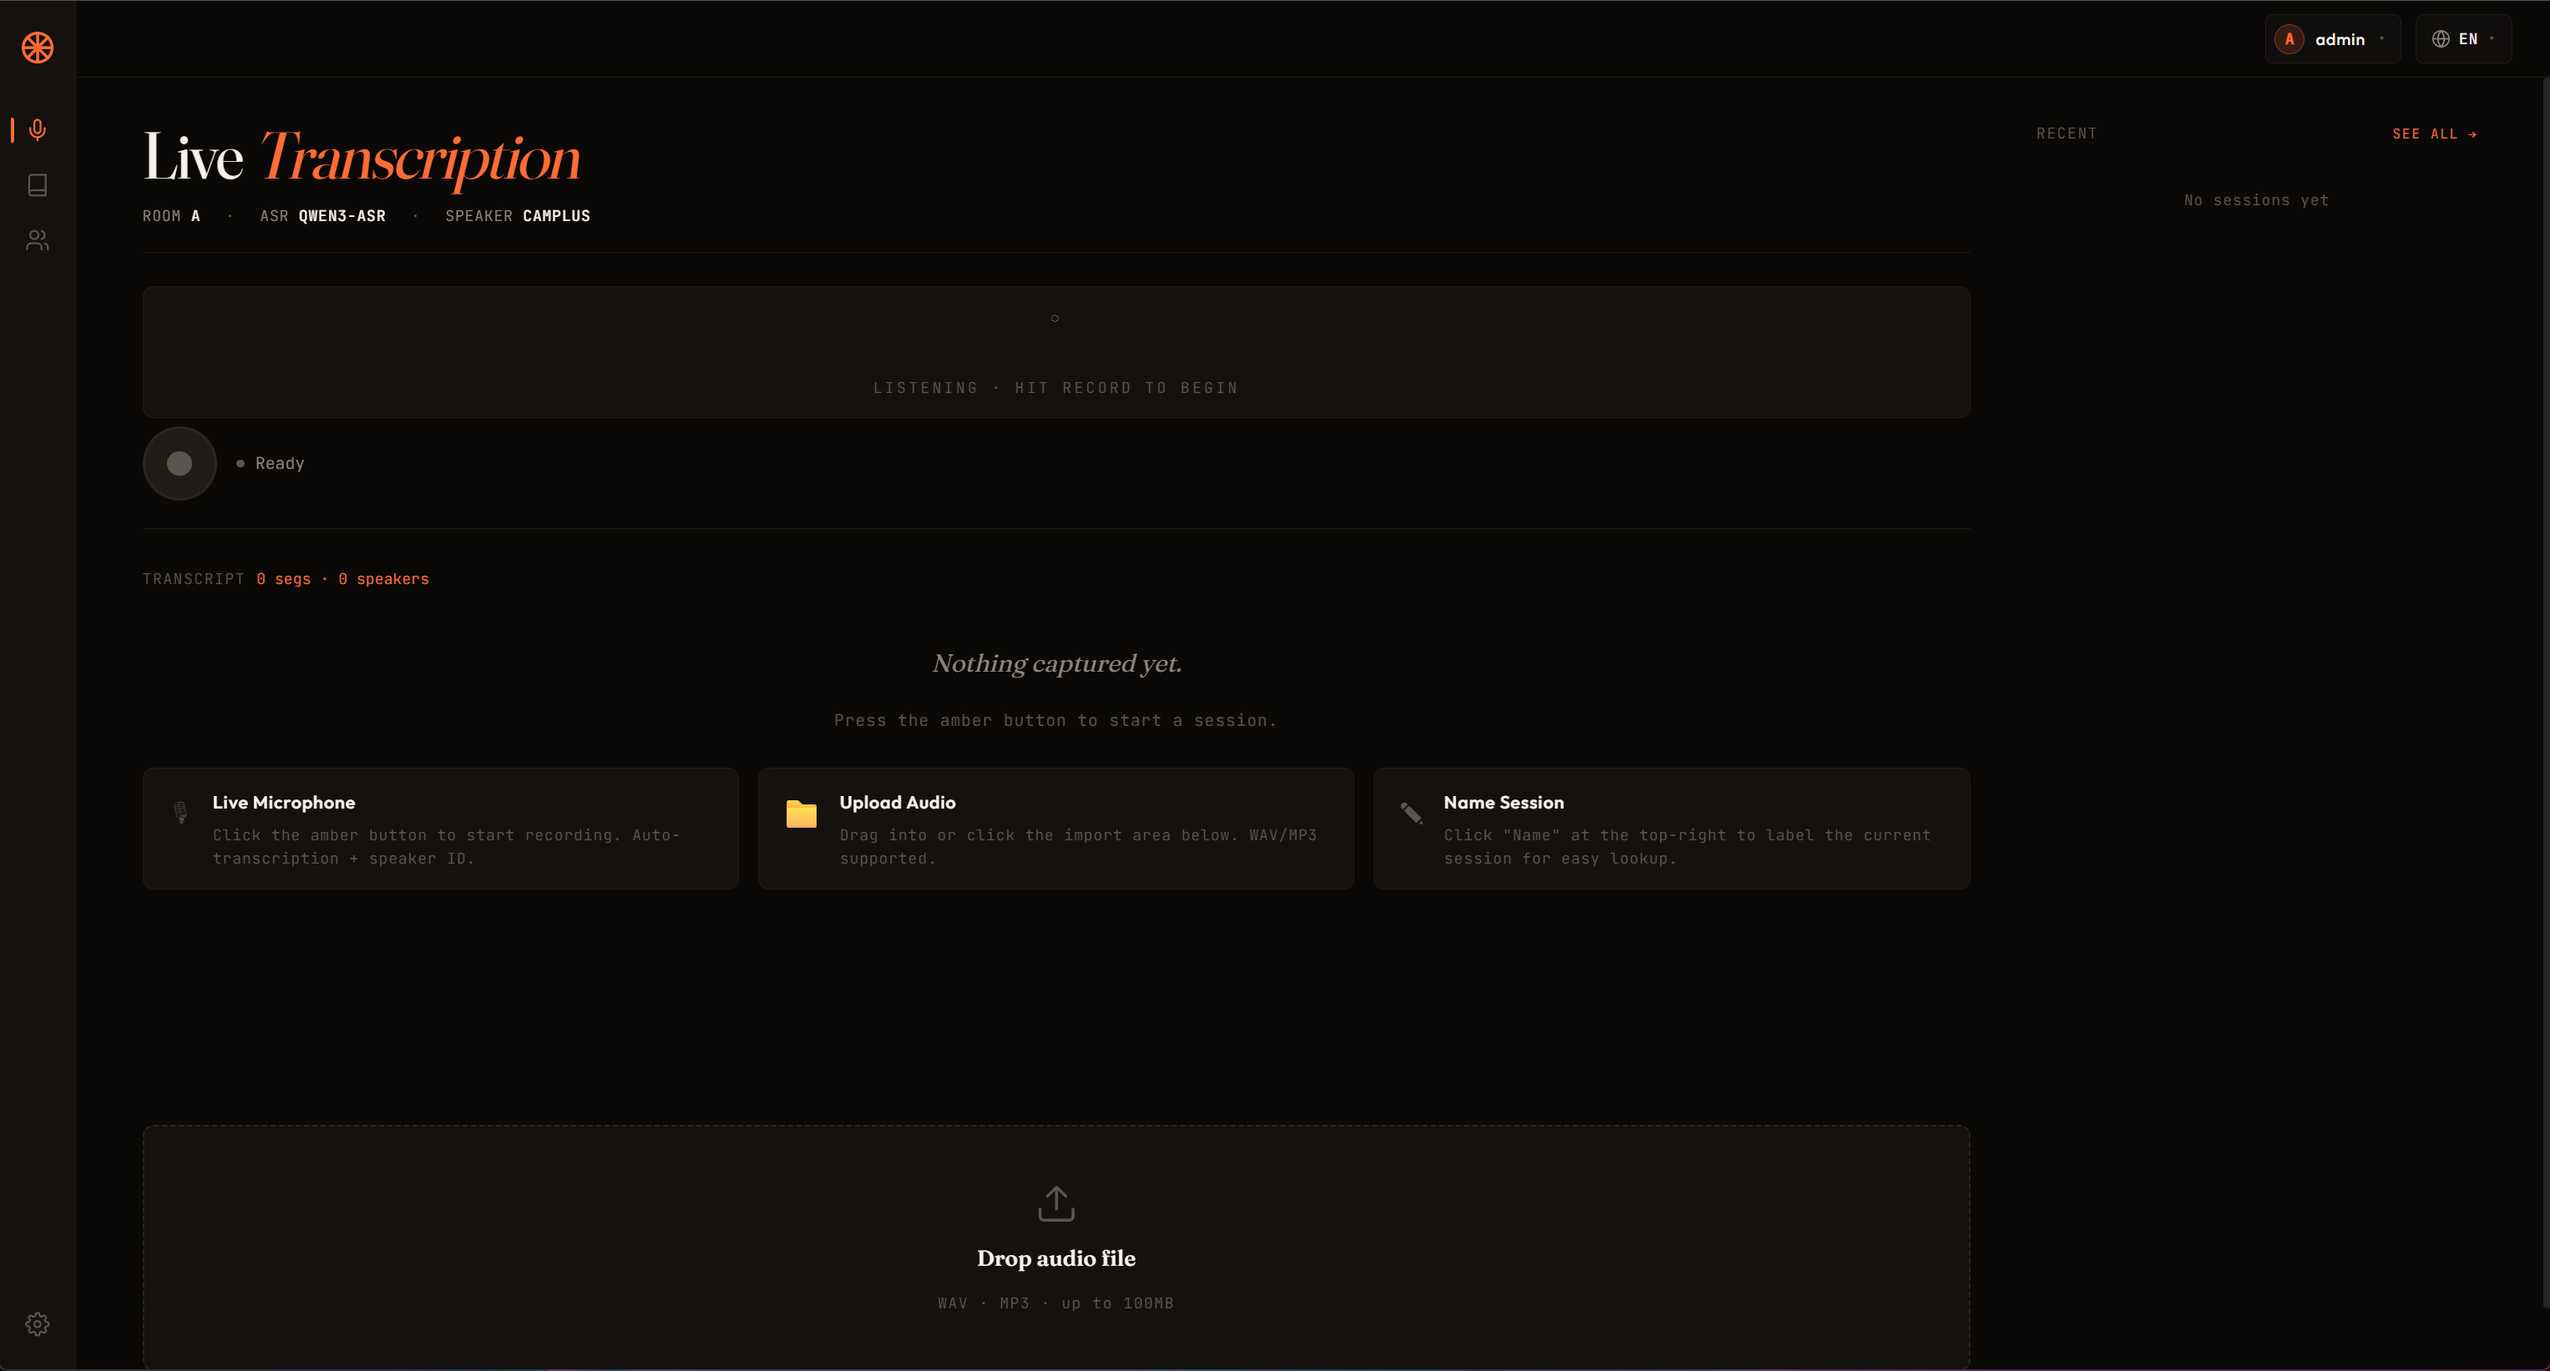
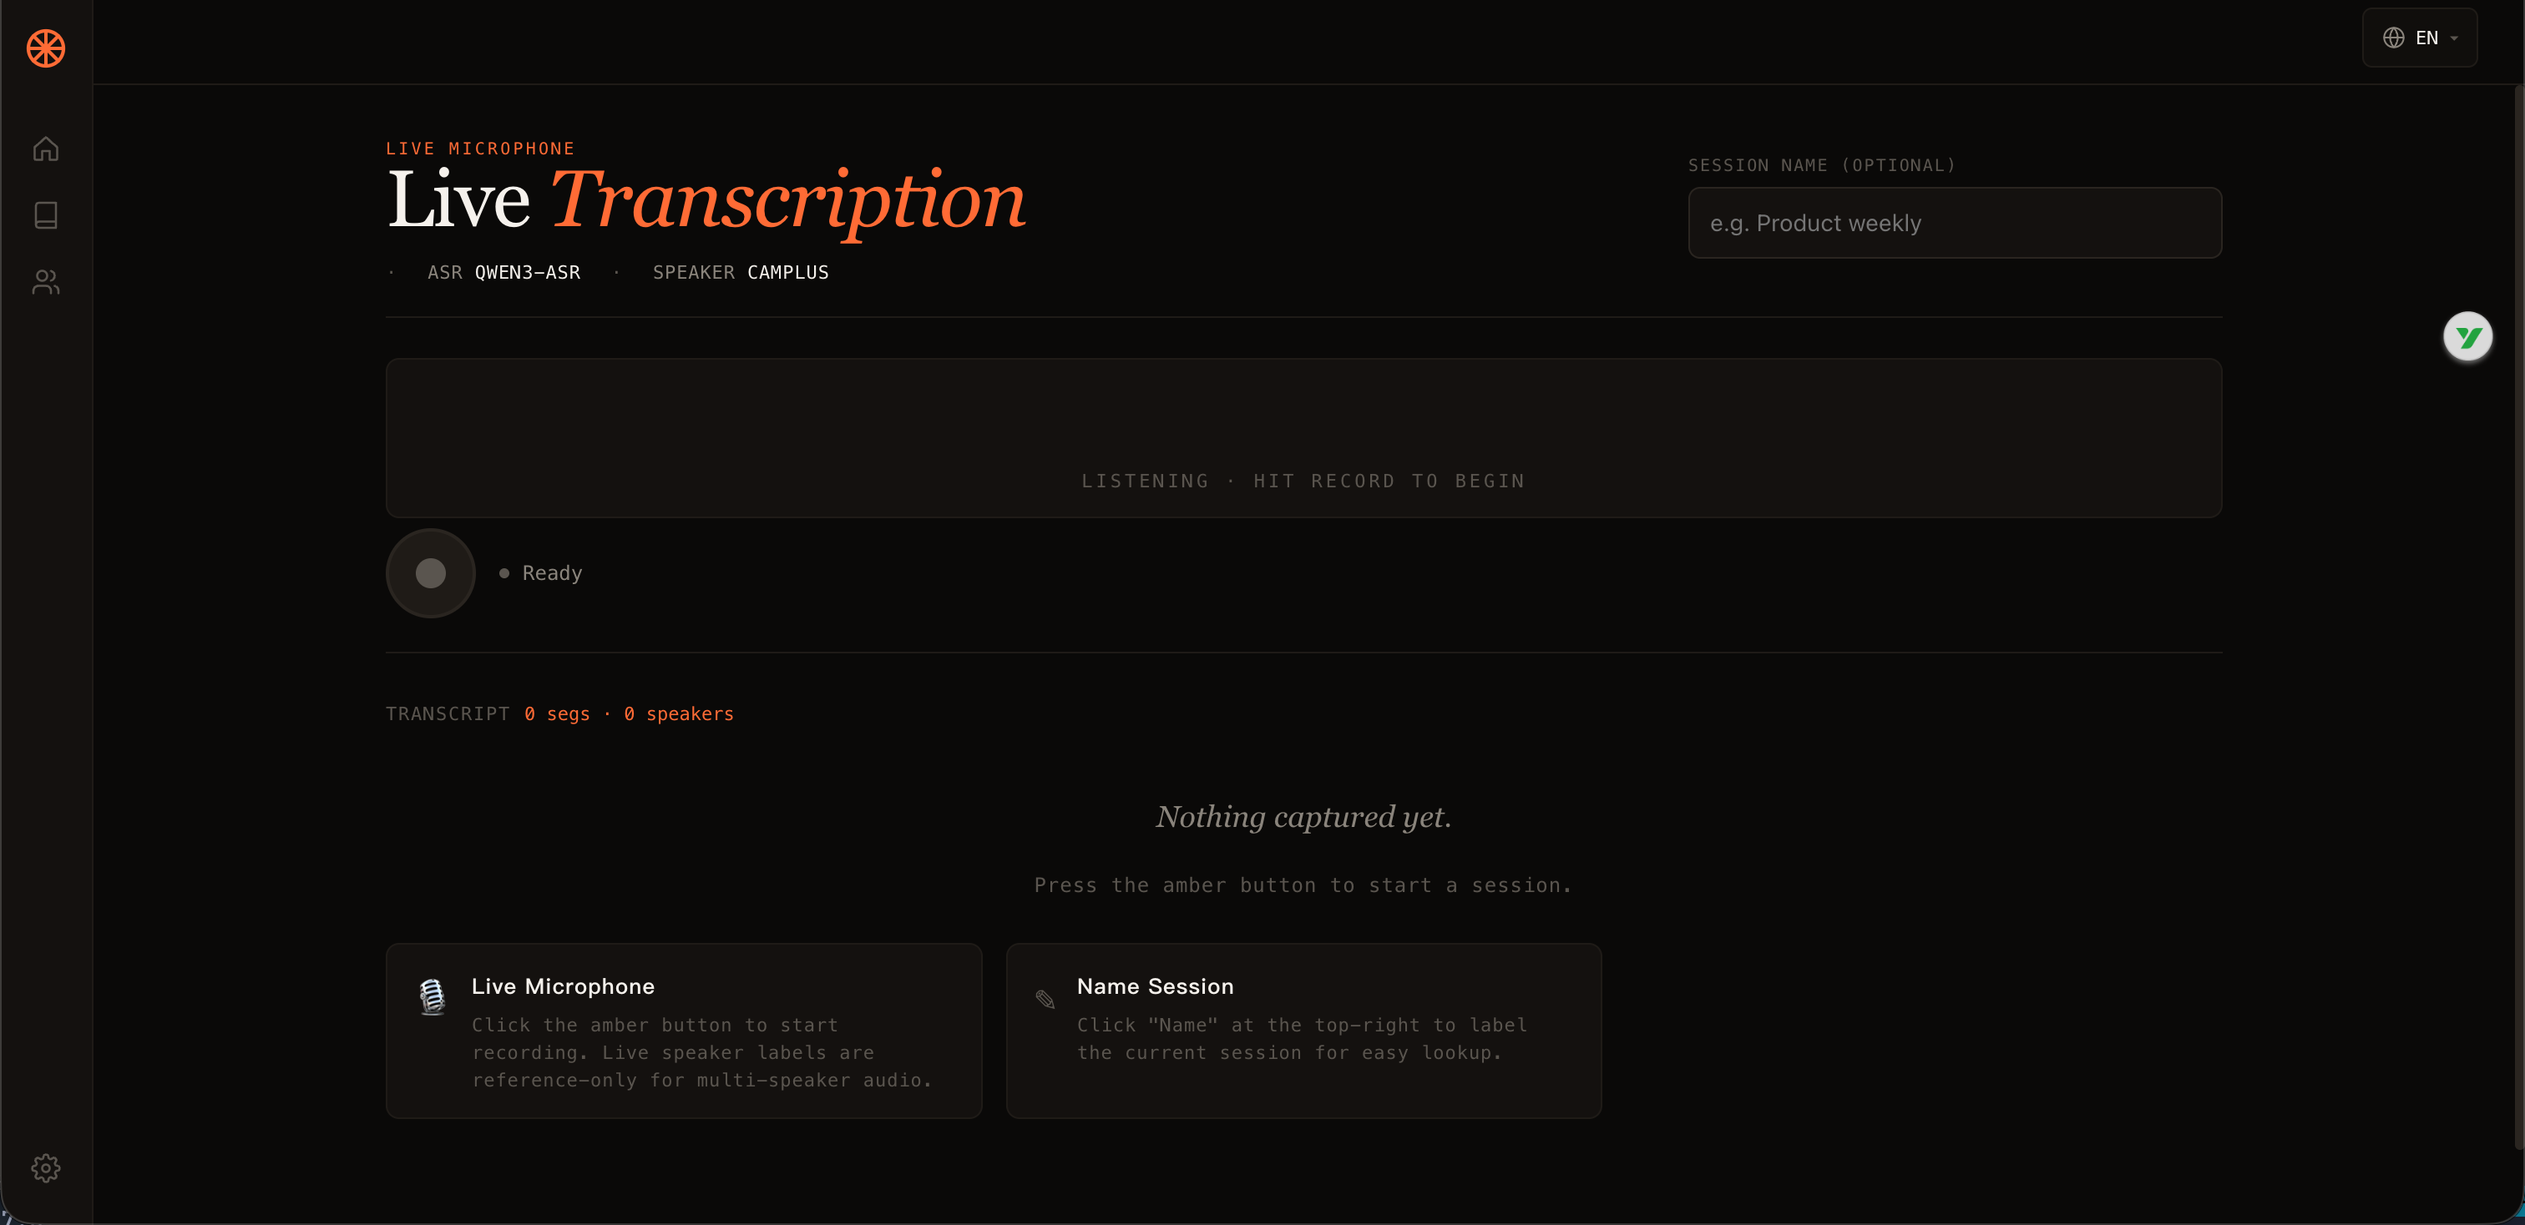
docs: bump to beta and fix README screenshot wall + layout
- status badge alpha->beta; version 0.4.0-alpha.0->0.4.0-beta.0 (OpenAPI/package.json/footer)
- README/SECURITY/API docs unified alpha->beta wording; disclaimer 'personal/local' -> 'trusted single machine'
- README fix broken screenshot links: library.png/Voice-Library.png did not exist, replaced with actual Meetings.png/People.png
- README add hero image (PRIVATE-MEETING-WORKSPACE) + feature emoji bullets (zh/en)
- update docs/images: add Meetings/People/PRIVATE-MEETING-WORKSPACE, update Live-Transcription, drop stale library/Voice-Library

diff --git a/web/src/i18n/zh.ts b/web/src/i18n/zh.ts
@@ -46,7 +46,7 @@ const zh: Record<string, string> = {
   'footer.ready': 'Ready',
   'footer.status': 'Status',
   'footer.studio': '为挑剔的耳朵而做',
-  'footer.version': 'Matrix · v0.4.0-alpha',
+  'footer.version': 'Matrix · v0.4.0-beta',
   'library.delete.confirm': '确认删除此会话？',
   'library.delete.fail': '删除失败：{0}',
   'library.delete.ok': '已删除',

diff --git a/web/src/i18n/en.ts b/web/src/i18n/en.ts
@@ -46,7 +46,7 @@ const en: Record<string, string> = {
   'footer.ready': 'Ready',
   'footer.status': 'Status',
   'footer.studio': 'made for studio ears',
-  'footer.version': 'Matrix · v0.4.0-alpha',
+  'footer.version': 'Matrix · v0.4.0-beta',
   'library.delete.confirm': 'Delete this session?',
   'library.delete.fail': 'Delete failed: {0}',
   'library.delete.ok': 'Deleted',

diff --git a/app/__init__.py b/app/__init__.py
@@ -80,7 +80,7 @@ def create_app() -> FastAPI:
     app = FastAPI(
         title=APP_TITLE,
         description="实时音频转写与说话人识别系统",
-        version="0.4.0-alpha.0"
+        version="0.4.0-beta.0"
     )
     
     # 速率限制中间件(从 config.rate_limit 读取,支持 .env 调参)

diff --git a/README.en.md b/README.en.md
@@ -7,13 +7,13 @@ A local-first meeting transcription tool · no data egress by default · upload 
 [![License: MIT](https://img.shields.io/badge/license-MIT-blue.svg)](LICENSE)
 [![Python](https://img.shields.io/badge/python-3.10%E2%80%933.12-blue.svg)](https://www.python.org/)
 [![Node](https://img.shields.io/badge/node-20%2B-green.svg)](https://nodejs.org/)
-![Status](https://img.shields.io/badge/status-alpha-orange.svg)
+![Status](https://img.shields.io/badge/status-beta-blue.svg)
 
 [中文](README.md) · [Usage](docs/USAGE.md) · [Privacy](docs/PRIVACY.md) · [Security](docs/SECURITY.md) · [API](docs/API.md) · [Models](docs/MODELS.md)
 
 </div>
 
-> This is alpha software for personal use on a trusted computer. It is **not** a public, multi-tenant, compliance-archive, or automatic identity-verification service.
+> This is beta software for a trusted single machine. It is suitable for trial and iteration locally, and is **not** a public, multi-tenant, compliance-archive, or automatic identity-verification service.
 
 ## What it solves
 
@@ -21,17 +21,17 @@ Turn a meeting recording into a structured, speaker-attributed, correctable, exp
 
 Two paths in one tool, covering a meeting from live capture to post-meeting processing:
 
-- **Upload a recording (post-meeting quality path)**: decode → ASR → optional pyannote multi-speaker diarization → voice-match enrolled people → store → correct / summarize / export.
-- **Live captions (during the meeting)**: browser mic → VAD segmenting → ASR → voice-identify enrolled people → stream segments as they are spoken and persist them.
+- 📤 **Upload a recording (post-meeting quality path)**: decode → ASR → optional pyannote multi-speaker diarization → voice-match enrolled people → store → correct / summarize / export.
+- ⚡ **Live captions (during the meeting)**: browser mic → VAD segmenting → ASR → voice-identify enrolled people → stream segments as they are spoken and persist them.
 
 ## Core features
 
-- **Local-first**: on-device inference by default; runs offline after the initial model download (when LLM is off).
-- **Multi-speaker diarization**: upload/meeting mode uses pyannote community-1 to produce anonymous speaker turns.
-- **Voice matching**: map anonymous `Spk_01` to enrolled people under strict thresholds; always manually correctable, **not identity authentication**. Voice samples can be enrolled via **file upload or in-browser recording**.
-- **Correctable minutes**: double-click to edit text, batch-reassign speakers, merge/split speakers, generate/edit summaries (LLM or local TextRank fallback).
-- **Multi-format export**: Markdown / SRT / VTT / JSON.
-- **Swappable engines**: ASR (Qwen3-ASR / SenseVoice / Paraformer) and speaker (CamPlus / ERes2Net / Wespeaker) switchable at runtime.
+- 🖥 **Local-first**: on-device inference by default; runs offline after the initial model download (when LLM is off).
+- 👥 **Multi-speaker diarization**: upload/meeting mode uses pyannote community-1 to produce anonymous speaker turns.
+- 🧬 **Voice matching**: map anonymous `Spk_01` to enrolled people under strict thresholds; always manually correctable, **not identity authentication**. Voice samples can be enrolled via **file upload or in-browser recording**.
+- 📝 **Correctable minutes**: double-click to edit text, batch-reassign speakers, merge/split speakers, generate/edit summaries (LLM or local TextRank fallback).
+- 📤 **Multi-format export**: Markdown / SRT / VTT / JSON.
+- 🔧 **Swappable engines**: ASR (Qwen3-ASR / SenseVoice / Paraformer) and speaker (CamPlus / ERes2Net / Wespeaker) switchable at runtime.
 
 ## Product boundary
 
@@ -45,22 +45,27 @@ Two paths in one tool, covering a meeting from live capture to post-meeting proc
 
 ## Screenshots
 
+<div align="center">
+  <img src="docs/images/PRIVATE-MEETING-WORKSPACE.png" alt="Meeting workspace" width="100%">
+  <p><b>Meeting workspace</b> · transcription, correction, speaker attribution, minutes, and export — all local</p>
+</div>
+
 <table>
   <tr>
     <td width="50%" align="center"><b>Live captions</b></td>
     <td width="50%" align="center"><b>Meetings library</b></td>
   </tr>
   <tr>
-    <td><img src="docs/images/Live-Transcription.png" alt="Live captions"></td>
-    <td><img src="docs/images/library.png" alt="Meetings library"></td>
+    <td><img src="docs/images/Live-Transcription.png" alt="Live captions" width="100%"></td>
+    <td><img src="docs/images/Meetings.png" alt="Meetings library" width="100%"></td>
   </tr>
   <tr>
     <td width="50%" align="center"><b>People & voice samples (with in-browser recording)</b></td>
     <td width="50%" align="center"><b>Engines & settings</b></td>
   </tr>
   <tr>
-    <td><img src="docs/images/Voice-Library.png" alt="People & voice samples"></td>
-    <td><img src="docs/images/settings.png" alt="Settings"></td>
+    <td><img src="docs/images/People.png" alt="People & voice samples" width="100%"></td>
+    <td><img src="docs/images/settings.png" alt="Settings" width="100%"></td>
   </tr>
 </table>
 
@@ -98,7 +103,7 @@ python main.py
 
 Open `http://127.0.0.1:8000`. The default server binds only to loopback. Default account is `admin/admin`; the first login forces a password change.
 
-Data structures may change during the alpha period, so do not use this project as the only copy or as a long-term archive.
+Interfaces are stabilizing during the beta period, but may still change; do not use this project as the only copy or as a long-term archive.
 
 Docker CPU builds are available with `docker compose up --build`, but CPU inference may be slow.
 

diff --git a/README.md b/README.md
@@ -7,13 +7,13 @@
 [![License: MIT](https://img.shields.io/badge/license-MIT-blue.svg)](LICENSE)
 [![Python](https://img.shields.io/badge/python-3.10%E2%80%933.12-blue.svg)](https://www.python.org/)
 [![Node](https://img.shields.io/badge/node-20%2B-green.svg)](https://nodejs.org/)
-![Status](https://img.shields.io/badge/status-alpha-orange.svg)
+![Status](https://img.shields.io/badge/status-beta-blue.svg)
 
 [English](README.en.md) · [使用说明](docs/USAGE.md) · [隐私](docs/PRIVACY.md) · [安全](docs/SECURITY.md) · [API](docs/API.md) · [模型](docs/MODELS.md)
 
 </div>
 
-> 这是一份 alpha 阶段的个人本机工具。适合在自己的电脑上试用和改进，**不面向公网、多租户、合规存档或自动身份判定**。
+> 这是一份 beta 阶段的本地单机工具,适合在受信任的机器上试用和改进。当前不面向公网部署、多租户、合规存档或自动身份判定。
 
 ## 它解决什么
 
@@ -21,17 +21,17 @@
 
 两条路径合一，覆盖会议从现场到会后的全程：
 
-- **上传录音（会后高质量处理）**：解码 → ASR → 可选 pyannote 多人分离 → 声纹匹配已登记人物 → 入库 → 校正/纪要/导出。
-- **实时字幕（会议进行中）**：浏览器录音 → VAD 切段 → ASR → 声纹识别已登记人物 → 边说边出，落段入库。
+- 📤 **上传录音（会后高质量处理）**：解码 → ASR → 可选 pyannote 多人分离 → 声纹匹配已登记人物 → 入库 → 校正/纪要/导出。
+- ⚡ **实时字幕（会议进行中）**：浏览器录音 → VAD 切段 → ASR → 声纹识别已登记人物 → 边说边出，落段入库。
 
 ## 核心能力
 
-- **本地优先**：默认全本机推理，下载模型后可在无网环境运行（LLM 关闭时）。
-- **多人说话人分离**：上传会议模式用 pyannote community-1 切出匿名说话人 turn。
-- **声纹匹配**：把匿名 `Spk_01` 按严格阈值匹配到已登记人物，可随时人工纠正，**不是身份认证**。声样支持**上传文件或浏览器在线录音**注册。
-- **可校正纪要**：双击改文稿、批量重指说话人、合并/拆分说话人、生成/编辑摘要（LLM 或本地 TextRank 兜底）。
-- **多格式导出**：Markdown / SRT / VTT / JSON。
-- **可切换引擎**：ASR（Qwen3-ASR / SenseVoice / Paraformer）、声纹（CamPlus / ERes2Net / Wespeaker）运行时可切。
+- 🖥 **本地优先**：默认全本机推理，下载模型后可在无网环境运行（LLM 关闭时）。
+- 👥 **多人说话人分离**：上传会议模式用 pyannote community-1 切出匿名说话人 turn。
+- 🧬 **声纹匹配**：把匿名 `Spk_01` 按严格阈值匹配到已登记人物，可随时人工纠正，**不是身份认证**。声样支持**上传文件或浏览器在线录音**注册。
+- 📝 **可校正纪要**：双击改文稿、批量重指说话人、合并/拆分说话人、生成/编辑摘要（LLM 或本地 TextRank 兜底）。
+- 📤 **多格式导出**：Markdown / SRT / VTT / JSON。
+- 🔧 **可切换引擎**：ASR（Qwen3-ASR / SenseVoice / Paraformer）、声纹（CamPlus / ERes2Net / Wespeaker）运行时可切。
 
 ## 产品边界
 
@@ -43,7 +43,12 @@
 
 > **关于项目名**：实时与上传是同一会议的两个入口，均为一等功能。多人说话人分离（diarization）在上传模式完成；实时模式靠声纹识别已登记说话人，不做多人分离。
 
-## 截图
+## 界面预览
+
+<div align="center">
+  <img src="docs/images/PRIVATE-MEETING-WORKSPACE.png" alt="会议工作区" width="100%">
+  <p><b>会议工作区</b> · 转写、校正、说话人归属、纪要与导出,全程本地</p>
+</div>
 
 <table>
   <tr>
@@ -51,16 +56,16 @@
     <td width="50%" align="center"><b>会议库</b></td>
   </tr>
   <tr>
-    <td><img src="docs/images/Live-Transcription.png" alt="实时字幕"></td>
-    <td><img src="docs/images/library.png" alt="会议库"></td>
+    <td><img src="docs/images/Live-Transcription.png" alt="实时字幕" width="100%"></td>
+    <td><img src="docs/images/Meetings.png" alt="会议库" width="100%"></td>
   </tr>
   <tr>
     <td width="50%" align="center"><b>人员声样（含在线录音）</b></td>
     <td width="50%" align="center"><b>引擎与设置</b></td>
   </tr>
   <tr>
-    <td><img src="docs/images/Voice-Library.png" alt="人员声样"></td>
-    <td><img src="docs/images/settings.png" alt="设置"></td>
+    <td><img src="docs/images/People.png" alt="人员声样" width="100%"></td>
+    <td><img src="docs/images/settings.png" alt="设置" width="100%"></td>
   </tr>
 </table>
 
@@ -98,7 +103,7 @@ python main.py
 
 浏览器打开 `http://127.0.0.1:8000`。默认只监听本机回环地址。默认账户 `admin/admin`，首次登录强制改密。
 
-项目仍处于 alpha 阶段，数据结构可能调整，请勿将其作为会议资料的唯一副本或长期归档系统。
+项目处于 beta 阶段,接口趋于稳定但仍可能调整,请勿将其作为会议资料的唯一副本或长期归档系统。
 
 Docker CPU 版：
 

diff --git a/docs/SECURITY.md b/docs/SECURITY.md
@@ -2,7 +2,7 @@
 
 ## Supported deployment
 
-The supported alpha deployment is one user on a trusted computer. The default server binds to `127.0.0.1`. Local browser requests may bypass login only when the network peer and browser Origin are trusted loopback values.
+The supported beta deployment is one user on a trusted computer. The default server binds to `127.0.0.1`. Local browser requests may bypass login only when the network peer and browser Origin are trusted loopback values.
 
 LAN mode is an advanced deployment, not a multi-user security boundary. All authenticated users would access the same meetings and people.
 

diff --git a/docs/API.md b/docs/API.md
@@ -1,6 +1,6 @@
 # API
 
-The alpha API serves one local user. Contracts may change before a stable release. Except for health, model catalog, login, and limited status endpoints, `/v1/*` requires authentication when local bypass is disabled.
+The beta API serves one local user. Contracts may still change before a stable release. Except for health, model catalog, login, and limited status endpoints, `/v1/*` requires authentication when local bypass is disabled.
 
 ## Meetings
 

diff --git a/SECURITY.md b/SECURITY.md
@@ -1,6 +1,6 @@
 # Security Policy
 
-Matrix Live Diarizer is currently alpha software. The supported security boundary is one user on a trusted local computer; public deployment is not supported.
+Matrix Live Diarizer is currently beta software. The supported security boundary is one user on a trusted local computer; public deployment is not supported.
 
 See [docs/SECURITY.md](docs/SECURITY.md) for deployment defaults, sensitive-data handling, and the LAN checklist.
 
